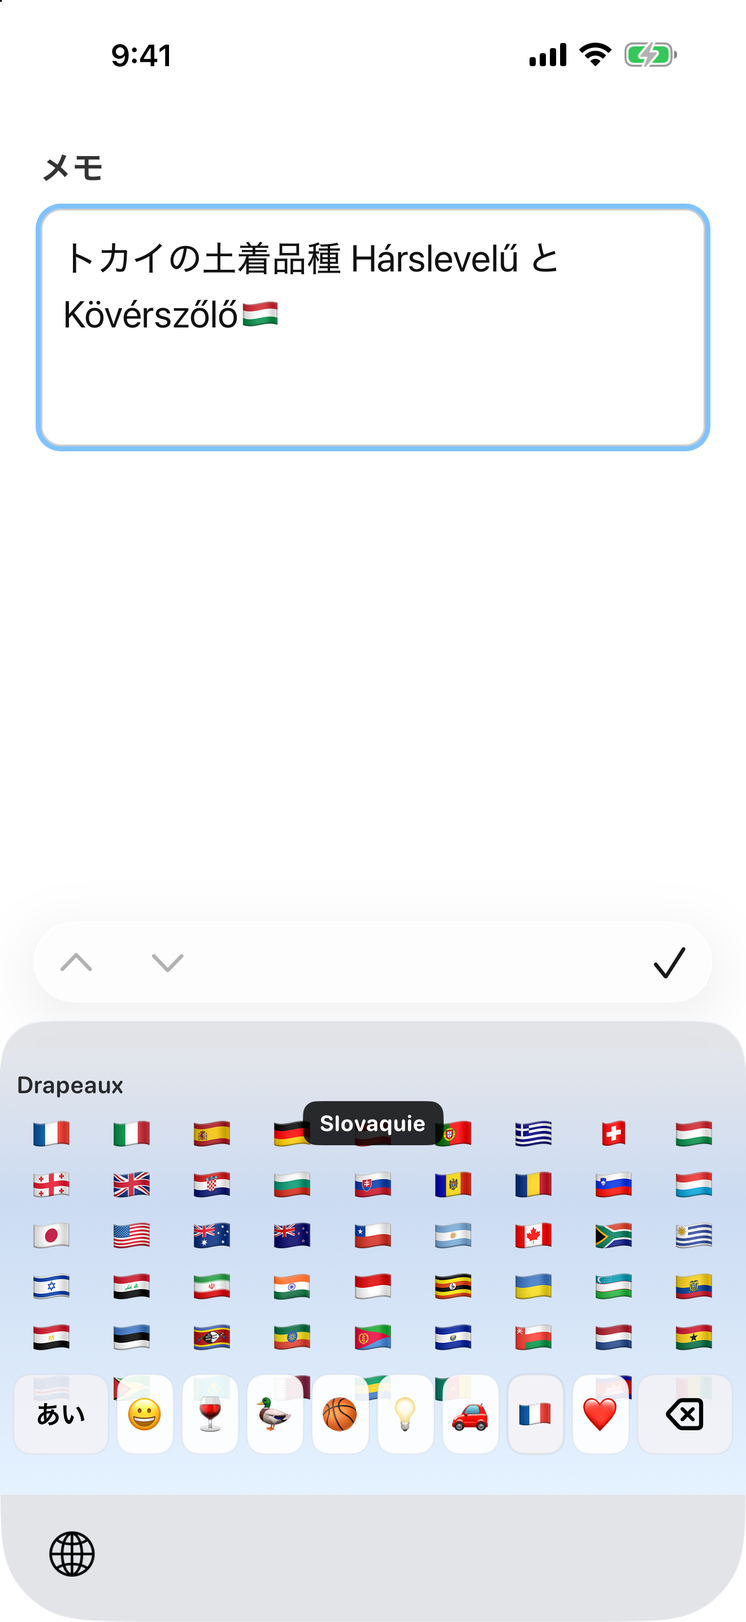
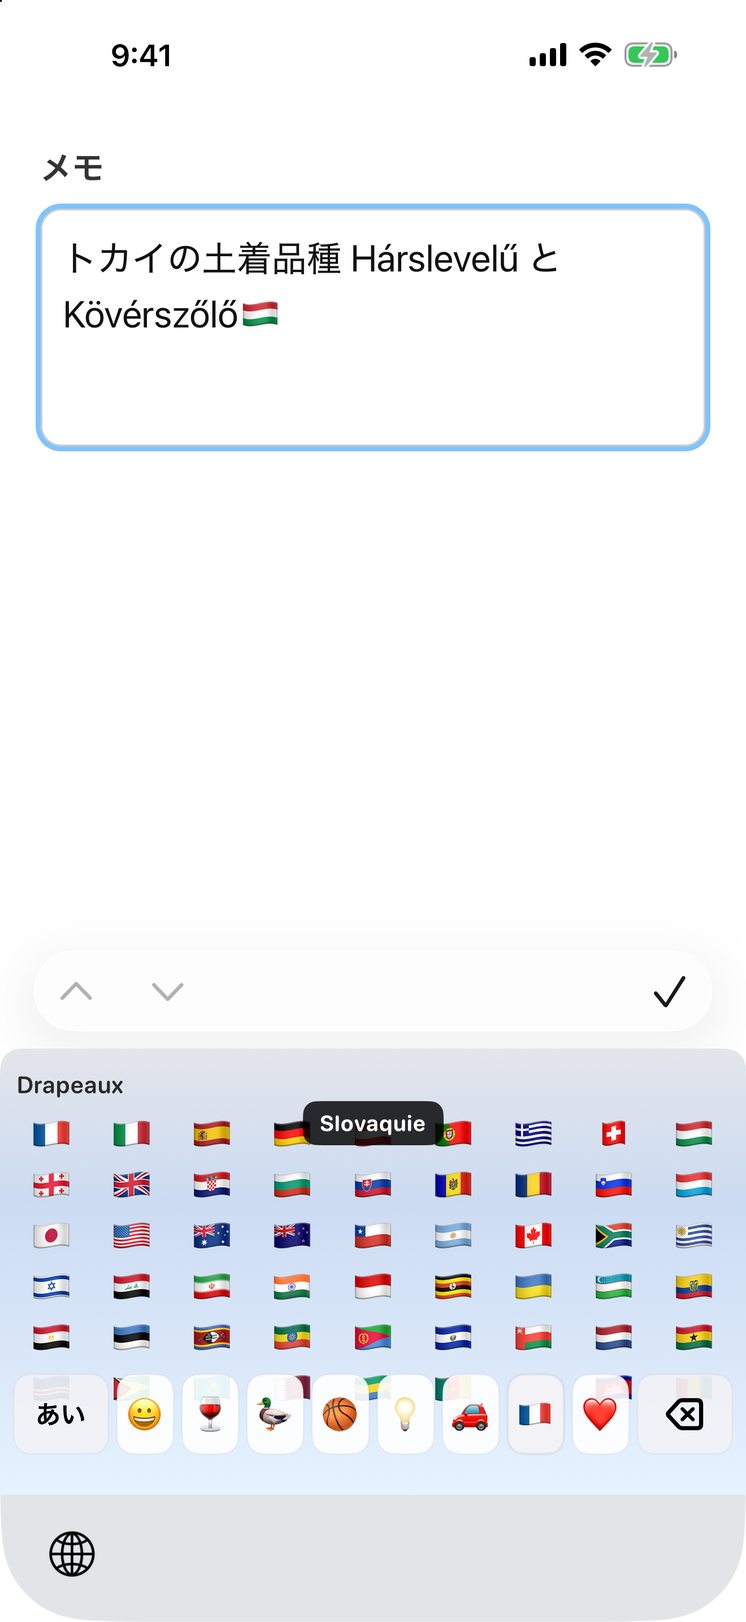
docs: 用語「2段フリック」を「2段階フリック」に統一し、ストアのプレビューの説明を「『や』キーの」にする
マニュアル・App Store の説明文・ストアのプレビュー・ソースとテストのコメントの 23 か所。
画面に出る文字列にはこの語は無かった。プレビューは高さをそろえたスクリーンショット 01・03・04 も反映して作り直した。

Changed region(s): [[0.0621, 0.5896, 0.9318, 0.6517], [0.9629, 0.6206, 0.9939, 0.6517], [0.0, 0.6206, 0.0311, 0.6517]]

diff --git a/docs/store-preview/index.html b/docs/store-preview/index.html
@@ -31,9 +31,9 @@
       <p class="meta">カテゴリ: ユーティリティ · 年齢: 4+ · 対応: iPhone</p>
     </div>
   </div>
-  <div class="gallery"><figure><img src="01-kana.png" alt="かな入力と候補バー" width="1320" height="2868" loading="lazy"><figcaption>かな入力と候補バー</figcaption></figure><figure><img src="02-comma-flick.png" alt="や キーの 2 段フリック(sakura テーマ)" width="1320" height="2868" loading="lazy"><figcaption>や キーの 2 段フリック(sakura テーマ)</figcaption></figure><figure><img src="03-flags.png" alt="国旗の長押し" width="1320" height="2868" loading="lazy"><figcaption>国旗の長押し</figcaption></figure><figure><img src="04-kaomoji-search.png" alt="顔文字の読み検索" width="1320" height="2868" loading="lazy"><figcaption>顔文字の読み検索</figcaption></figure><figure><img src="05-number-unit.png" alt="書式化数値(単位)" width="1320" height="2868" loading="lazy"><figcaption>書式化数値(単位)</figcaption></figure><figure><img src="06-settings.png" alt="設定アプリ" width="1320" height="2868" loading="lazy"><figcaption>設定アプリ</figcaption></figure></div>
+  <div class="gallery"><figure><img src="01-kana.png" alt="かな入力と候補バー" width="1320" height="2868" loading="lazy"><figcaption>かな入力と候補バー</figcaption></figure><figure><img src="02-comma-flick.png" alt="『や』キーの2段階フリック(sakura テーマ)" width="1320" height="2868" loading="lazy"><figcaption>『や』キーの2段階フリック(sakura テーマ)</figcaption></figure><figure><img src="03-flags.png" alt="国旗の長押し" width="1320" height="2868" loading="lazy"><figcaption>国旗の長押し</figcaption></figure><figure><img src="04-kaomoji-search.png" alt="顔文字の読み検索" width="1320" height="2868" loading="lazy"><figcaption>顔文字の読み検索</figcaption></figure><figure><img src="05-number-unit.png" alt="書式化数値(単位)" width="1320" height="2868" loading="lazy"><figcaption>書式化数値(単位)</figcaption></figure><figure><img src="06-settings.png" alt="設定アプリ" width="1320" height="2868" loading="lazy"><figcaption>設定アプリ</figcaption></figure></div>
   <div class="promo">『?』『。』『〜』『…』括弧まで、かなのまま打てる日本語フリックキーボード。通信は一切なし — 入力内容が端末の外に出ることはありません。連文節変換、絵文字・顔文字・記号パネル、単位や日付の入力補助まで、1 つのキーボードで。</div>
-  <div class="desc"><p>écritu(エクリチュ)は、『同じことを毎回選ばされない』ことを第一に設計された iPhone 用の日本語フリック入力キーボードです。『?』を打つたびに『?』か『？』かを選ぶ、句読点や括弧を打つたびに候補から確定する、といった操作を無くしました。記号に未確定の状態はなく、打った瞬間にいつも同じ形でそのまま入るので、選ぶ場面そのものがありません。</p><h3>通信ゼロ。入力内容は端末の外に出ません</h3><p>écritu にはネットワーク通信を行なうコードそのものがありません。入力した文字、変換履歴、学習した語彙が開発者を含む誰かに送られることは、仕組みの上でありえません。解析SDK・広告SDKも不使用。フルアクセスの用途は、本体アプリとキーボードの間で設定と学習語彙を共有することだけです。</p><h3>さらに、よく使う記号はかな入力の画面で</h3><p>『?』『!』『。』『・』は読点キーのフリックに、『〜』『ー』はわキーに、括弧はやキーに置きました。よく使う記号のために記号モードへ入る回数も減ります。やキー・わキーは『2段フリック』に対応し、() や「」などの括弧、旧仮名の『ゐ』『ゑ』まで指を離さずに入力できます。</p><h3>賢い変換と、育つ辞書</h3><p>文節をまたいだ連文節変換に対応。確定した候補は端末内で学習され、使うほどあなたの言葉に馴染みます。単語の手動登録(追加語彙)、出したくない候補を隠す抑制語彙、定型文のショートカット語彙、iOS の連絡先やユーザ辞書との連携も。</p><h3>絵文字・顔文字・記号のパネル</h3><p>カテゴリー分けされた絵文字(国旗は長押しで国名をフランス語表示)、読みから探せる顔文字検索、通貨・単位・数学記号・矢印・囲み文字。漢字1字を部首や画数から探せる単漢字入力も備えています。</p><h3>数字・単位・日付の入力補助</h3><p>数字モードでは 3,000 のような桁区切り、km や ℃ などの単位、金額、日付や曜日(カレンダー表示つき)まで、書式化された数値をそのまま入力できます。</p><h3>欧文もサジェスト</h3><p>フランス語・ドイツ語・イタリア語・英語の入力補完を搭載(オフライン辞書)。アクセント付き文字も長押しで。メールアドレスやURLの欄では自動的に英字配列で開きます。</p><h3>細かな設定</h3><p>かな配列(5×2 / 3×3+わ)、フリック方向(hanabi / littlebear / écritu)、英字配列(QWERTY / AZERTY / 3×3)、テーマとアクセントカラー、フリックガイドの表示方法など、細部まで好みに合わせられます。</p><p>操作方法の詳しい説明は、操作マニュアル(全9章。アプリのアイコンを長押ししたメニューから Safari で開けます)をご覧ください。</p></div>
+  <div class="desc"><p>écritu(エクリチュ)は、『同じことを毎回選ばされない』ことを第一に設計された iPhone 用の日本語フリック入力キーボードです。『?』を打つたびに『?』か『？』かを選ぶ、句読点や括弧を打つたびに候補から確定する、といった操作を無くしました。記号に未確定の状態はなく、打った瞬間にいつも同じ形でそのまま入るので、選ぶ場面そのものがありません。</p><h3>通信ゼロ。入力内容は端末の外に出ません</h3><p>écritu にはネットワーク通信を行なうコードそのものがありません。入力した文字、変換履歴、学習した語彙が開発者を含む誰かに送られることは、仕組みの上でありえません。解析SDK・広告SDKも不使用。フルアクセスの用途は、本体アプリとキーボードの間で設定と学習語彙を共有することだけです。</p><h3>さらに、よく使う記号はかな入力の画面で</h3><p>『?』『!』『。』『・』は読点キーのフリックに、『〜』『ー』はわキーに、括弧はやキーに置きました。よく使う記号のために記号モードへ入る回数も減ります。やキー・わキーは『2段階フリック』に対応し、() や「」などの括弧、旧仮名の『ゐ』『ゑ』まで指を離さずに入力できます。</p><h3>賢い変換と、育つ辞書</h3><p>文節をまたいだ連文節変換に対応。確定した候補は端末内で学習され、使うほどあなたの言葉に馴染みます。単語の手動登録(追加語彙)、出したくない候補を隠す抑制語彙、定型文のショートカット語彙、iOS の連絡先やユーザ辞書との連携も。</p><h3>絵文字・顔文字・記号のパネル</h3><p>カテゴリー分けされた絵文字(国旗は長押しで国名をフランス語表示)、読みから探せる顔文字検索、通貨・単位・数学記号・矢印・囲み文字。漢字1字を部首や画数から探せる単漢字入力も備えています。</p><h3>数字・単位・日付の入力補助</h3><p>数字モードでは 3,000 のような桁区切り、km や ℃ などの単位、金額、日付や曜日(カレンダー表示つき)まで、書式化された数値をそのまま入力できます。</p><h3>欧文もサジェスト</h3><p>フランス語・ドイツ語・イタリア語・英語の入力補完を搭載(オフライン辞書)。アクセント付き文字も長押しで。メールアドレスやURLの欄では自動的に英字配列で開きます。</p><h3>細かな設定</h3><p>かな配列(5×2 / 3×3+わ)、フリック方向(hanabi / littlebear / écritu)、英字配列(QWERTY / AZERTY / 3×3)、テーマとアクセントカラー、フリックガイドの表示方法など、細部まで好みに合わせられます。</p><p>操作方法の詳しい説明は、操作マニュアル(全9章。アプリのアイコンを長押ししたメニューから Safari で開けます)をご覧ください。</p></div>
   <h3>キーワード(検索用・ストアには表示されません)</h3>
   <p class="meta">エクリチュ,日本語入力,フリック,かな,IME,連文節,変換,絵文字,顔文字,記号,オフライン,辞書,旧仮名,部首,単位,フランス語</p>
   <p class="meta">ご意見は TestFlight のフィードバック、または <a href="mailto:écritu@merope.pleiades.or.jp">écritu@merope.pleiades.or.jp</a> へ。</p>

diff --git a/docs/manual/layouts-kana.html b/docs/manual/layouts-kana.html
@@ -218,7 +218,7 @@
           <div class="k ret" style="font-size:22px">⏎</div>
         </div>
       </div>
-      <figcaption>littlebear式・テーマ rose sakura poudré の例。ガイド文字の配置が変わります(や キーは 『 が左・』 が右になり、2 段フリックで 4 種すべての括弧が使えます)。</figcaption>
+      <figcaption>littlebear式・テーマ rose sakura poudré の例。ガイド文字の配置が変わります(や キーは 『 が左・』 が右になり、2段階フリックで 4 種すべての括弧が使えます)。</figcaption>
     </figure>
   </div>
 
@@ -246,7 +246,7 @@
     <div class="refkey"><span class="c">わ</span><span class="u">ゐ</span><span class="r">ん</span><span class="d">を</span><span class="l">ー</span></div>
     <div class="refkey"><span class="c">、</span><span class="u">?</span><span class="r">!</span><span class="d">・</span><span class="l">。</span></div>
   </div>
-  <p>わ キーには「を」「ん」に加えて長音「ー」と波ダッシュ「〜」、や キーには二重かぎ括弧「『」「』」が割り当てられています。、キーの詳細は<a href="#punctuation-key">後述</a>、『』からの 2 段フリックは<a href="#ya-bracket-flick">次項</a>を見てください。</p>
+  <p>わ キーには「を」「ん」に加えて長音「ー」と波ダッシュ「〜」、や キーには二重かぎ括弧「『」「』」が割り当てられています。、キーの詳細は<a href="#punctuation-key">後述</a>、『』からの 2段階フリックは<a href="#ya-bracket-flick">次項</a>を見てください。</p>
 
   <h3 id="kana-refgrid-apple">全キー早見 — littlebear式</h3>
   <div class="refgrid">
@@ -264,8 +264,8 @@
   </div>
   <p>iOS 標準キーボードと同じ並びです(や キーの括弧が「」ではなく『』である点だけが異なります)。<b>、キーは方向プロファイルの対象外</b>なので、littlebear式 でも écritu式 と同じ「上=?/右=!/下=・/左=。」のままです。</p>
 
-  <h3 id="ya-bracket-flick">や キーの 2 段フリック(括弧)</h3>
-  <p>や キーの『』は、フリックしたあと<b>指を離さずに上下へ動かす</b>と別の括弧に切り替わる「2 段フリック」に対応しています。2 段目が使えるのは<b>左右方向のフリックだけ</b>なので、方向プロファイルによって使える組み合わせが変わります。</p>
+  <h3 id="ya-bracket-flick">や キーの 2段階フリック(括弧)</h3>
+  <p>や キーの『』は、フリックしたあと<b>指を離さずに上下へ動かす</b>と別の括弧に切り替わる「2段階フリック」に対応しています。2 段目が使えるのは<b>左右方向のフリックだけ</b>なので、方向プロファイルによって使える組み合わせが変わります。</p>
   <div class="tablewrap"><table class="spec">
     <tr><th>方向プロファイル</th><th>1 段目</th><th>そのまま上へ</th><th>そのまま下へ</th></tr>
     <tr><td>écritu式(初期設定)</td><td>左フリック=』</td><td>)</td><td>」</td></tr>
@@ -274,8 +274,8 @@
   </table></div>
   <p>écritu式では『は上フリックのため 2 段目がなく、「(」「「」は や キーからは入力できません。丸括弧は<a href="#modifier-key">修飾キーの長押し(括弧で囲む)</a>や数字モード(<a href="layouts-latin-number.html#number-calculette">次ページ</a>)、かぎ括弧は数字モードの 7 キーから入力できます。</p>
 
-  <h3 id="wa-historical-kana-flick">わ キーの 2 段フリック(ゐ・ゑ と ー・〜)</h3>
-  <p>わ キーも 2 段フリックに対応しています。旧仮名の「ゐ」「ゑ」と、方向プロファイルごとに 1 段目から移した文字がここに入ります。</p>
+  <h3 id="wa-historical-kana-flick">わ キーの 2段階フリック(ゐ・ゑ と ー・〜)</h3>
+  <p>わ キーも 2段階フリックに対応しています。旧仮名の「ゐ」「ゑ」と、方向プロファイルごとに 1 段目から移した文字がここに入ります。</p>
   <div class="tablewrap"><table class="spec">
     <tr><th>方向プロファイル</th><th>1 段目</th><th>そのまま下へ</th></tr>
     <tr><td rowspan="2">écritu式(初期設定)</td><td>左フリック=ー</td><td>ゑ</td></tr>

diff --git a/KeyboardExtension/FlickKanaLayout.swift b/KeyboardExtension/FlickKanaLayout.swift
@@ -29,7 +29,7 @@ enum FlickKanaLayout {
     static let latinShiftKeyToken = "__latin_shift__"
     // わキーは方向プロファイルごとに別定義(2026-08-31、ゐ/ゑ対応の案C)。
     // écritu方向: 母音方向の一貫性(い段=上/お段=下)を わ行にも通す — 上ゐ・下を。
-    //   最頻出の ー(左)/ん(右) は1段のまま無傷。2段フリック: ー→下=ゑ、ん→下=〜。
+    //   最頻出の ー(左)/ん(右) は1段のまま無傷。2段階フリック: ー→下=ゑ、ん→下=〜。
     // Apple方向: 従来の1段割り当てを無傷で維持し、2段で を→下=ゐ、ー→下=ゑ を追加。
     // 〜 が écritu の1段目に存在しないため、汎用の remapped(for:) では導出できない。
     static let kanaWaSetEcritu = FlickKanaSet(
@@ -41,7 +41,7 @@ enum FlickKanaLayout {
         usesProfileDependentGuideOrder: false
     )
     // hanabi方向: 1998年の Newton OS 版 Hanabi の わ キー(中央=わ / 右=を / 上=ん / 左=ー)。
-    // 下は空いていたので 〜 を置く — 2段フリックは左右からしか起動しないため、ん が上にあると
+    // 下は空いていたので 〜 を置く — 2段階フリックは左右からしか起動しないため、ん が上にあると
     // 〜 の出口が無くなる。2段は を→下=ゐ、ー→下=ゑ で旧仮名も出せる(3010)
     static let kanaWaSetHanabi = FlickKanaSet(
         label: "わ", center: "わ", up: "ん", right: "を", down: "〜", left: "ー",
@@ -49,7 +49,7 @@ enum FlickKanaLayout {
     )
     static let kanaYaSet = FlickKanaSet(label: "や", center: "や", up: "『", right: "ゆ", down: "よ", left: "』")
 
-    // 2段フリック(横フリック後、指を離さず上下)の出力表。や の括弧に加え、
+    // 2段階フリック(横フリック後、指を離さず上下)の出力表。や の括弧に加え、
     // わ の旧仮名 ゐ/ゑ と、案Cで2段へ移した ー/〜 を担う(2026-08-31)。
     static func secondaryBracketFlickOutput(
         forPrimaryOutput primaryOutput: String,
@@ -75,7 +75,7 @@ enum FlickKanaLayout {
         }
     }
 
-    // FlickKeyView が2段フリックを起動してよい1段目出力か(左右フリック限定は呼び出し側)
+    // FlickKeyView が2段階フリックを起動してよい1段目出力か(左右フリック限定は呼び出し側)
     static func hasSecondaryFlickOutput(forPrimaryOutput primaryOutput: String) -> Bool {
         secondaryBracketFlickOutput(forPrimaryOutput: primaryOutput, verticalDirection: .haut) != nil
             || secondaryBracketFlickOutput(forPrimaryOutput: primaryOutput, verticalDirection: .bas) != nil

diff --git a/docs/manual/concept.html b/docs/manual/concept.html
@@ -53,8 +53,8 @@
     <figcaption>わキー — 下フリックで 〜、左フリックで ー</figcaption>
   </figure>
 
-  <h3 id="ya-key-two-step">やキーと 2 段フリック — 括弧もかなのまま</h3>
-  <p>やキーの上フリックは「『」、左フリックは「』」の二重かぎ括弧です。さらに écritu ならではの<b>2 段フリック</b>があります。左フリックで「』」を出したまま<b>指を離さず</b>、さらに上へ動かすと「)」、下へ動かすと「」」に変わります。2 段目に入れるのは左右方向のフリックだけなので、初期設定の écritu式では『(上フリック)はそのまま確定のみです。フリック方向を littlebear式にすると『が左・』が右に並ぶため、( 「 ) 」 の 4 種すべてが 2 段フリックで打てます(詳しくは<a href="layouts-kana.html#ya-bracket-flick">第8章</a>)。</p>
+  <h3 id="ya-key-two-step">やキーと 2段階フリック — 括弧もかなのまま</h3>
+  <p>やキーの上フリックは「『」、左フリックは「』」の二重かぎ括弧です。さらに écritu ならではの<b>2段階フリック</b>があります。左フリックで「』」を出したまま<b>指を離さず</b>、さらに上へ動かすと「)」、下へ動かすと「」」に変わります。2 段目に入れるのは左右方向のフリックだけなので、初期設定の écritu式では『(上フリック)はそのまま確定のみです。フリック方向を littlebear式にすると『が左・』が右に並ぶため、( 「 ) 」 の 4 種すべてが 2段階フリックで打てます(詳しくは<a href="layouts-kana.html#ya-bracket-flick">第8章</a>)。</p>
   <figure>
     <div class="explain">
       <div class="cross">
@@ -83,7 +83,7 @@
         <dt>littlebear式 なら</dt><dd>『(左)からも同様に ( と 「 が打てる</dd>
       </dl>
     </div>
-    <figcaption>2 段フリック — 』 を出したまま指を動かすと ) と 」 に切り替わる</figcaption>
+    <figcaption>2段階フリック — 』 を出したまま指を動かすと ) と 」 に切り替わる</figcaption>
   </figure>
 
   <h3 id="ellipsis-flick">修飾キーの下フリック — 「…」</h3>

diff --git a/docs/manual/index.html b/docs/manual/index.html
@@ -23,7 +23,7 @@
     <li><a href="concept.html"><span class="no">第1章</span><span class="t">écritu とは — 設計コンセプト</span><span class="d">モード切り替えを最小に。「?」「。」「〜」「…」「・」括弧、タブまで、かなのまま入力できる理由</span></a></li>
     <li><a href="setup.html"><span class="no">第2章</span><span class="t">導入 — キーボードの有効化</span><span class="d">iOS 設定での追加手順、フルアクセスの意味、キーボードの切り替え方</span></a></li>
     <li><a href="basics.html"><span class="no">第3章</span><span class="t">基本入力 — かな・変換・確定</span><span class="d">フリック入力のきほん、候補バーの読み方(鉛筆と循環矢印)、変換・確定・カタカナ確定</span></a></li>
-    <li><a href="symbols.html"><span class="no">第4章</span><span class="t">記号・数字・英字の入力</span><span class="d">読点キーの ?!・。、や/わキーの記号、2段フリックの括弧、タブ、数字と英字の各配列、書式化数値(単位・金額・日付)、単漢字入力</span></a></li>
+    <li><a href="symbols.html"><span class="no">第4章</span><span class="t">記号・数字・英字の入力</span><span class="d">読点キーの ?!・。、や/わキーの記号、2段階フリックの括弧、タブ、数字と英字の各配列、書式化数値(単位・金額・日付)、単漢字入力</span></a></li>
     <li><a href="emoji.html"><span class="no">第5章</span><span class="t">絵文字・顔文字・記号パネル</span><span class="d">絵文字カテゴリー、顔文字の検索、国旗と通貨の長押し表示、読みからの絵文字変換</span></a></li>
     <li><a href="vocab.html"><span class="no">第6章</span><span class="t">語彙と学習</span><span class="d">学習語彙・追加語彙・抑制語彙・ショートカット語彙、連絡先と iOS ユーザ辞書の利用</span></a></li>
     <li><a href="settings.html"><span class="no">第7章</span><span class="t">設定リファレンス</span><span class="d">設定アプリの全項目を 1 つずつ — キー配列・入力・表示・書式・変換・語彙管理まで</span></a></li>

diff --git a/docs/manual/sakuin.html b/docs/manual/sakuin.html
@@ -24,7 +24,7 @@
       <li><a href="basics.html#delete-and-repeat">⌫(削除キー)</a></li>
       <li><a href="layouts-kana.html#emoji-switcher-key">☺キー(かな左下)</a></li>
       <li><a href="layouts-kana.html#mode-palette">面選択のパレット(長押し)</a></li>
-      <li><a href="symbols.html#two-step-flick">2段フリック(括弧)</a></li>
+      <li><a href="symbols.html#two-step-flick">2段階フリック(括弧)</a></li>
       <li><a href="layouts-kana.html#kana-three-by-three">3×3+わ配列(かな)</a></li>
       <li><a href="layouts-kana.html#kana-five-by-two">5×2配列(かな)</a></li>
       <li><a href="layouts-kana.html#direction-profiles">littlebear式 / écritu式</a></li>
@@ -156,7 +156,7 @@
   <div class="idx-group">
     <h2 id="idx-ya">や行</h2>
     <ul class="idx">
-      <li><a href="layouts-kana.html#ya-bracket-flick">やキー(『』と2段フリック)</a></li>
+      <li><a href="layouts-kana.html#ya-bracket-flick">やキー(『』と2段階フリック)</a></li>
       <li><a href="vocab.html#ios-user-dictionary">ユーザ辞書(iOS本体)の単語を使う</a></li>
       <li><a href="vocab.html#suppression-vocab">抑制語彙(出したくない候補)</a></li>
       <li><a href="layouts-landscape.html#landscape-overview">横画面のレイアウト</a></li>

diff --git a/docs/manual/symbols.html b/docs/manual/symbols.html
@@ -57,8 +57,8 @@
     <li><b>やキーの上フリック=『、左フリック=』(二重かぎ括弧)</b>。書名や強調に使う『』が直接入ります。ゆ・よは右・下フリックです。</li>
   </ul>
 
-  <h2 id="two-step-flick">2段フリック — 括弧の切り替え</h2>
-  <p>やキーの『』には続きがあります。<b>左右方向のフリック</b>で『または』を選んだあと、<b>指を離さずに</b>そのまま上下へ動かすと、別の括弧に切り替わります。écritu ではこれを「2段フリック」と呼びます。</p>
+  <h2 id="two-step-flick">2段階フリック — 括弧の切り替え</h2>
+  <p>やキーの『』には続きがあります。<b>左右方向のフリック</b>で『または』を選んだあと、<b>指を離さずに</b>そのまま上下へ動かすと、別の括弧に切り替わります。écritu ではこれを「2段階フリック」と呼びます。</p>
   <ol class="steps">
     <li>やキーに触れ、左(』)へフリックします。まだ指は離しません。</li>
     <li>そのまま指を上または下へすべらせます。プレビューの文字が ) や 」 に変わります。</li>

diff --git a/Tests/KeyboardModeTransitionTests.swift b/Tests/KeyboardModeTransitionTests.swift
@@ -532,7 +532,7 @@ final class KeyboardModeTransitionTests: XCTestCase {
         XCTAssertEqual(hanabi.right, "を")
         XCTAssertEqual(hanabi.down, "〜")
         XCTAssertEqual(hanabi.left, "ー")
-        // 2段フリックは左右からしか起動しない。を→下=ゐ、ー→下=ゑ が出せること
+        // 2段階フリックは左右からしか起動しない。を→下=ゐ、ー→下=ゑ が出せること
         XCTAssertEqual(
             FlickKanaLayout.secondaryBracketFlickOutput(forPrimaryOutput: hanabi.right, verticalDirection: .bas), "ゐ")
         XCTAssertEqual(

diff --git a/appstore/build-store-preview.py b/appstore/build-store-preview.py
@@ -16,7 +16,7 @@ for block in desc.split('\n\n'):
     lines=block.split('\n')
     if lines[0].startswith('■ '): paras.append(f'<h3>{html.escape(lines[0][2:])}</h3>'+''.join(f'<p>{html.escape(l)}</p>' for l in lines[1:]))
     else: paras.append(''.join(f'<p>{html.escape(l)}</p>' for l in lines))
-shots=[('01-kana.png','かな入力と候補バー'),('02-comma-flick.png','や キーの 2 段フリック(sakura テーマ)'),('03-flags.png','国旗の長押し'),('04-kaomoji-search.png','顔文字の読み検索'),('05-number-unit.png','書式化数値(単位)'),('06-settings.png','設定アプリ')]
+shots=[('01-kana.png','かな入力と候補バー'),('02-comma-flick.png','『や』キーの2段階フリック(sakura テーマ)'),('03-flags.png','国旗の長押し'),('04-kaomoji-search.png','顔文字の読み検索'),('05-number-unit.png','書式化数値(単位)'),('06-settings.png','設定アプリ')]
 gallery=''.join(f'<figure><img src="{f}" alt="{html.escape(c)}" width="1320" height="2868" loading="lazy"><figcaption>{html.escape(c)}</figcaption></figure>' for f,c in shots)
 page=f'''<!DOCTYPE html>
 <html lang="ja">

diff --git a/appstore/metadata.md b/appstore/metadata.md
@@ -26,7 +26,7 @@
 écritu にはネットワーク通信を行なうコードそのものがありません。入力した文字、変換履歴、学習した語彙が開発者を含む誰かに送られることは、仕組みの上でありえません。解析SDK・広告SDKも不使用。フルアクセスの用途は、本体アプリとキーボードの間で設定と学習語彙を共有することだけです。
 
 ■ さらに、よく使う記号はかな入力の画面で
-『?』『!』『。』『・』は読点キーのフリックに、『〜』『ー』はわキーに、括弧はやキーに置きました。よく使う記号のために記号モードへ入る回数も減ります。やキー・わキーは『2段フリック』に対応し、() や「」などの括弧、旧仮名の『ゐ』『ゑ』まで指を離さずに入力できます。
+『?』『!』『。』『・』は読点キーのフリックに、『〜』『ー』はわキーに、括弧はやキーに置きました。よく使う記号のために記号モードへ入る回数も減ります。やキー・わキーは『2段階フリック』に対応し、() や「」などの括弧、旧仮名の『ゐ』『ゑ』まで指を離さずに入力できます。
 
 ■ 賢い変換と、育つ辞書
 文節をまたいだ連文節変換に対応。確定した候補は端末内で学習され、使うほどあなたの言葉に馴染みます。単語の手動登録(追加語彙)、出したくない候補を隠す抑制語彙、定型文のショートカット語彙、iOS の連絡先やユーザ辞書との連携も。
